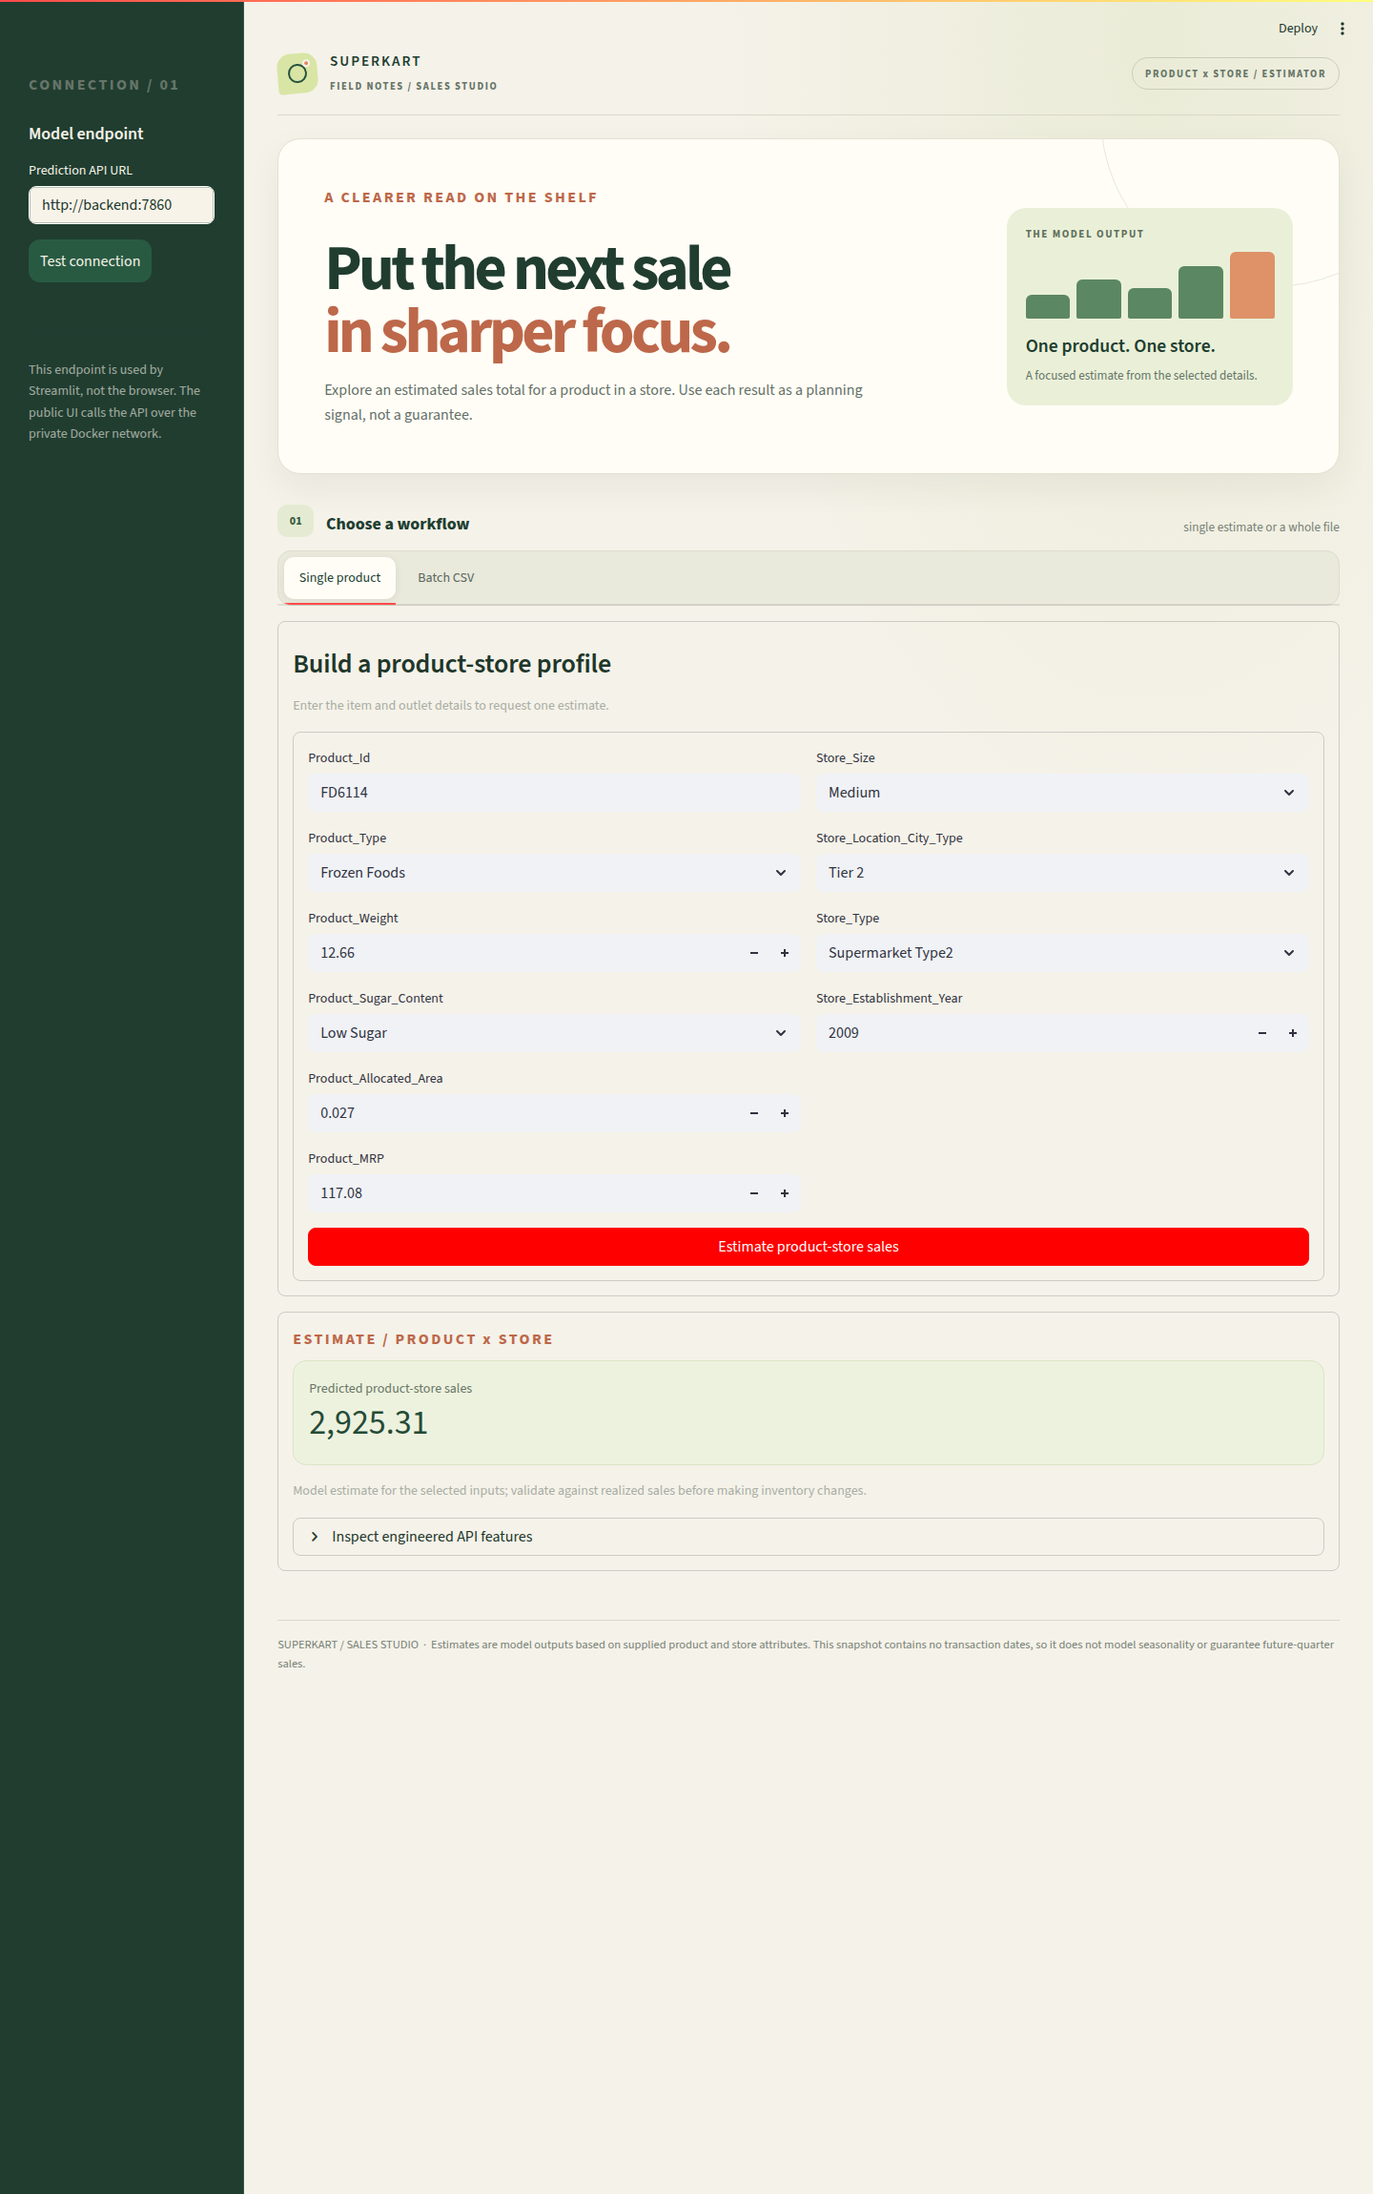
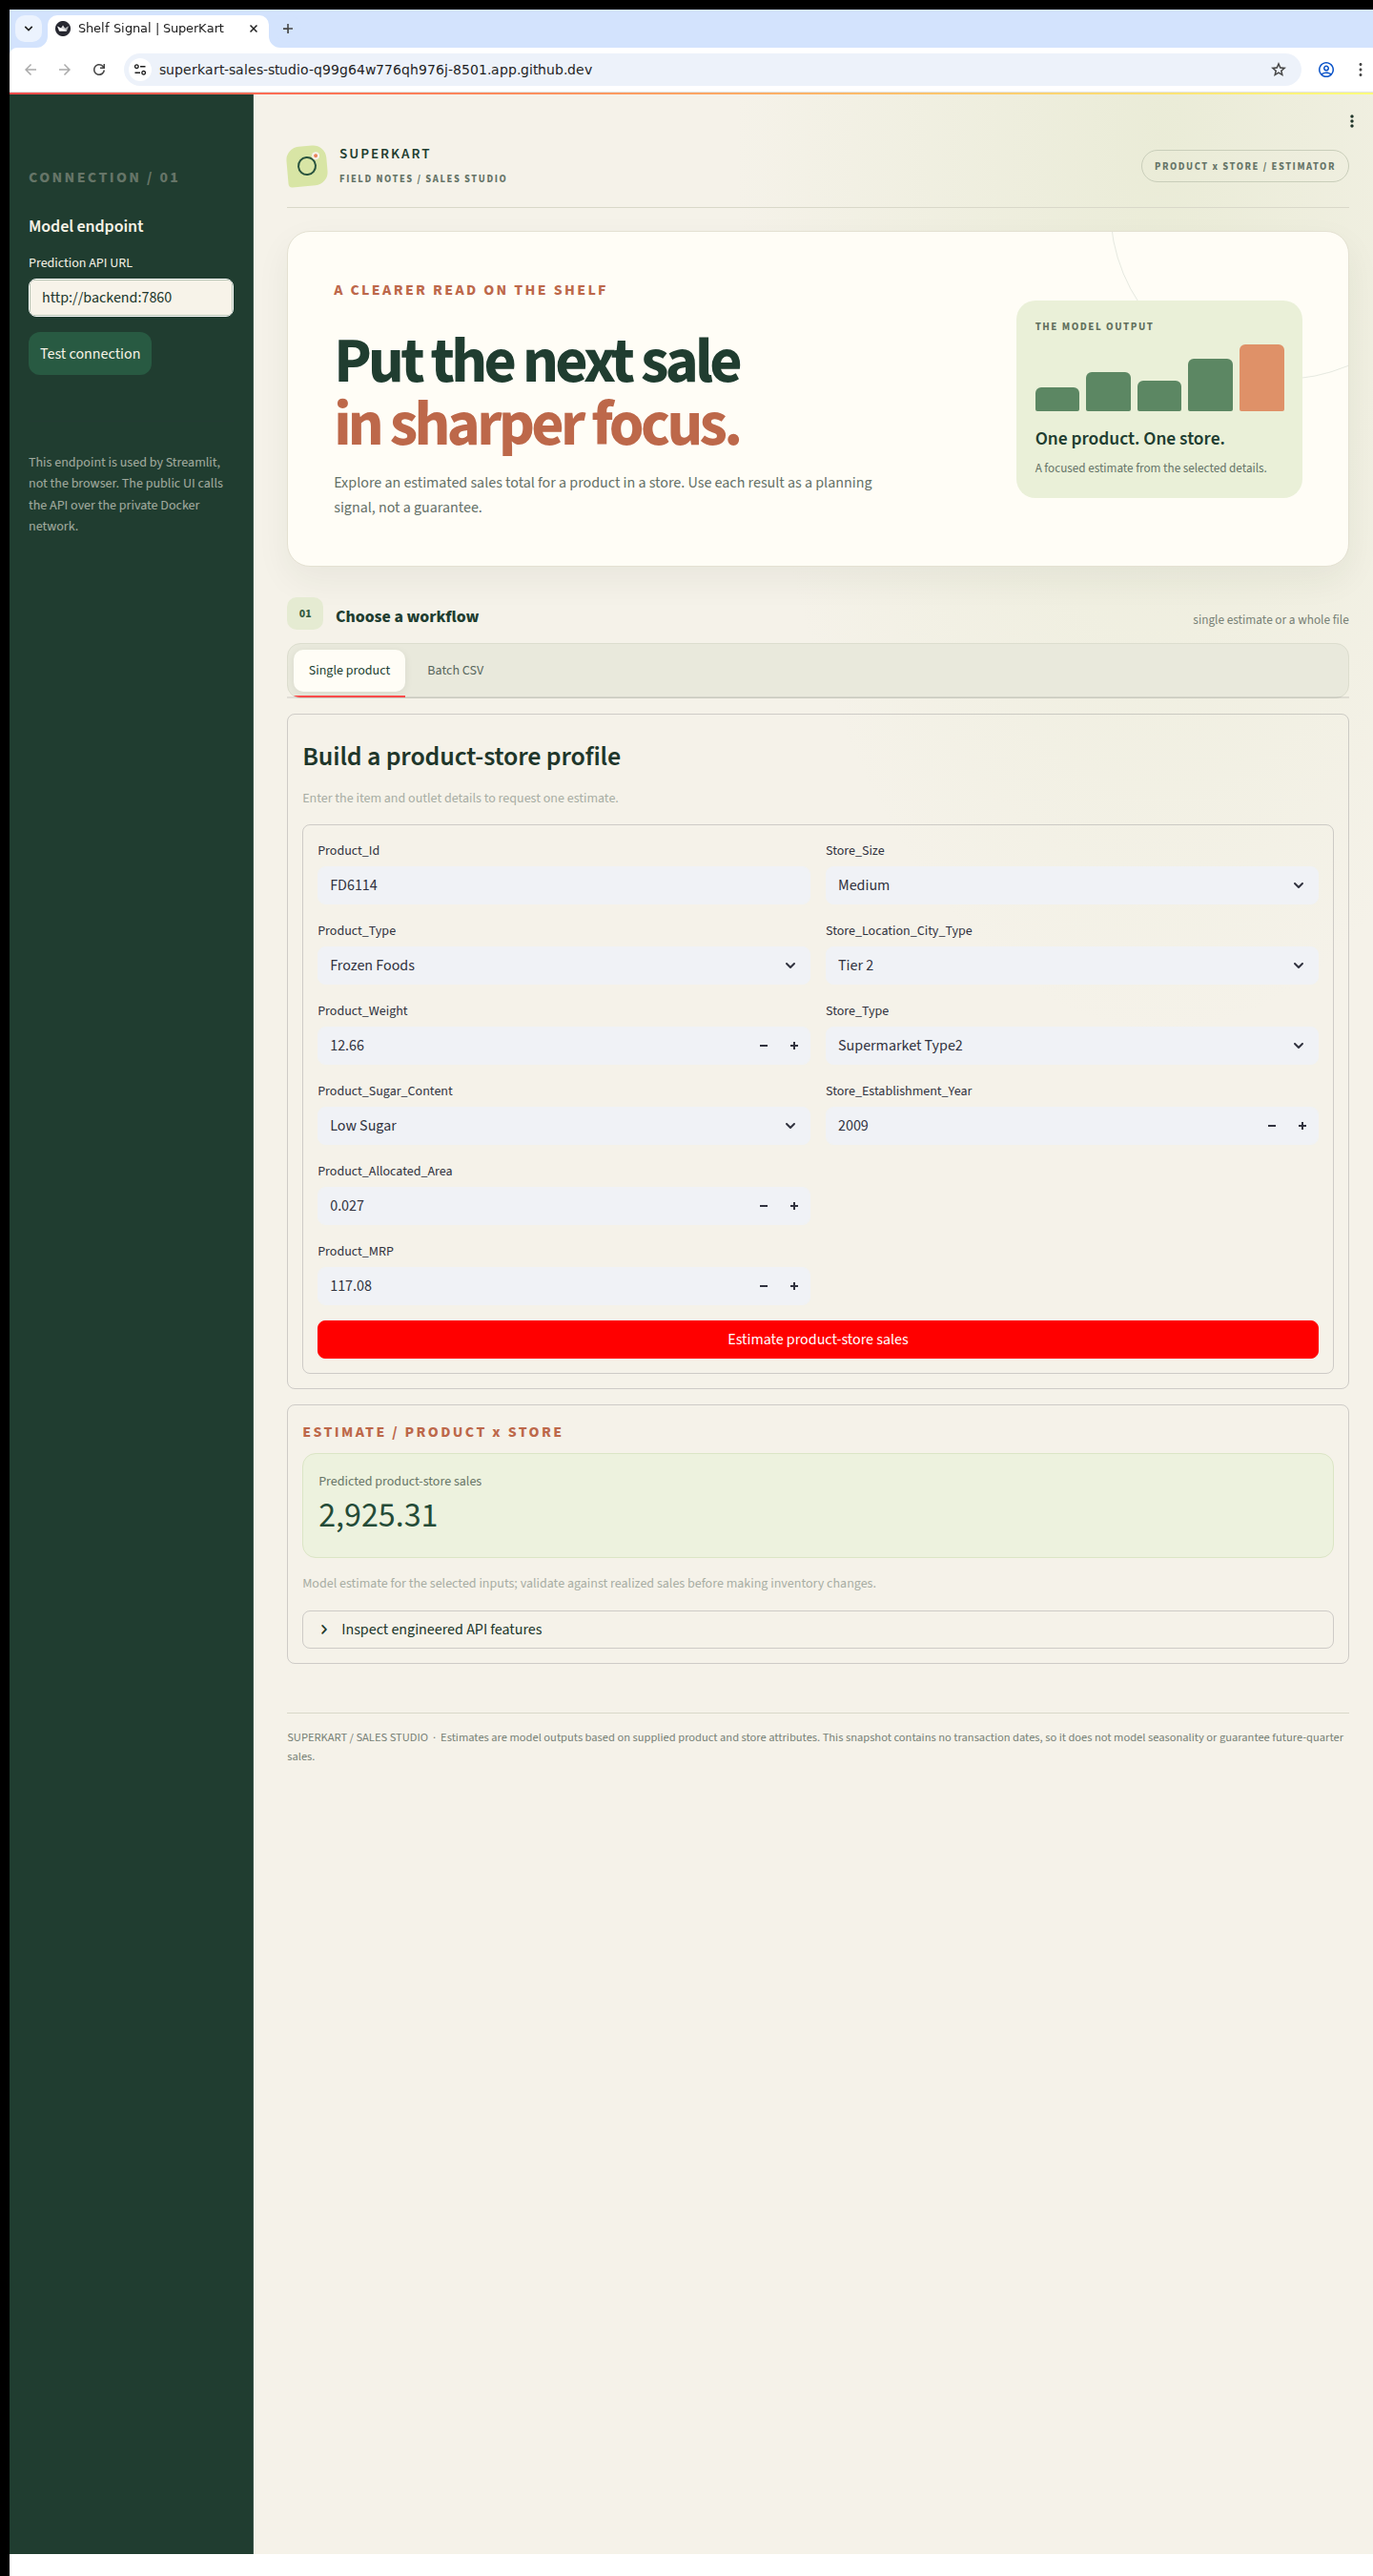
Improve deployment evidence and source clarity

diff --git a/deployment/frontend_files/app.py b/deployment/frontend_files/app.py
@@ -408,6 +408,7 @@ with single_tab:
             )
 
     if submitted:
+        # Keep the browser-facing form in raw fields; the API applies the shared feature contract.
         # Keep raw form values on the shared training/inference feature contract.
         raw_record = {
             "Product_Id": product_id,
@@ -491,6 +492,7 @@ with batch_tab:
         "Estimate batch", type="primary", use_container_width=True
     ):
         try:
+            # Batch uploads use the downloadable model-ready schema, unlike the raw single-item form.
             source = pd.read_csv(uploaded)
         except (UnicodeDecodeError, pd.errors.ParserError, pd.errors.EmptyDataError) as exc:
             st.error(f"Could not read the CSV: {exc}")

diff --git a/deployment/backend_files/app.py b/deployment/backend_files/app.py
@@ -92,6 +92,7 @@ def predict_batch():
 
     valid_rows: list[tuple[int, dict[str, object]]] = []
     errors = []
+    # Validate each record independently so unsupported rows do not block the valid batch.
     # Preserve source row numbers while allowing valid rows to predict in one call.
     for row_number, (_, series) in enumerate(frame.iterrows(), start=1):
         try:

diff --git a/deployment/README.md b/deployment/README.md
@@ -88,8 +88,10 @@ Evidence captured from the live Codespaces interface:
 - [Single-product inference screenshot](../screenshots/public-single-prediction.png)
 - [Batch inference screenshot](../screenshots/public-batch-inference.png)
 
-The screenshots show the actual application page content without browser
-chrome. The public URL is linked above rather than recreated in an overlay.
+Both screenshots are genuine Chrome window captures with the forwarded public
+URL visible in the browser address bar. The batch capture includes the complete
+10-row summary, all eight predictions, and the review table for unsupported
+rows 5 and 10.
 
 GitHub may show its one-time public-port safety notice on first access. A
 Codespace can suspend when idle; its `postStartCommand` restarts the containers
